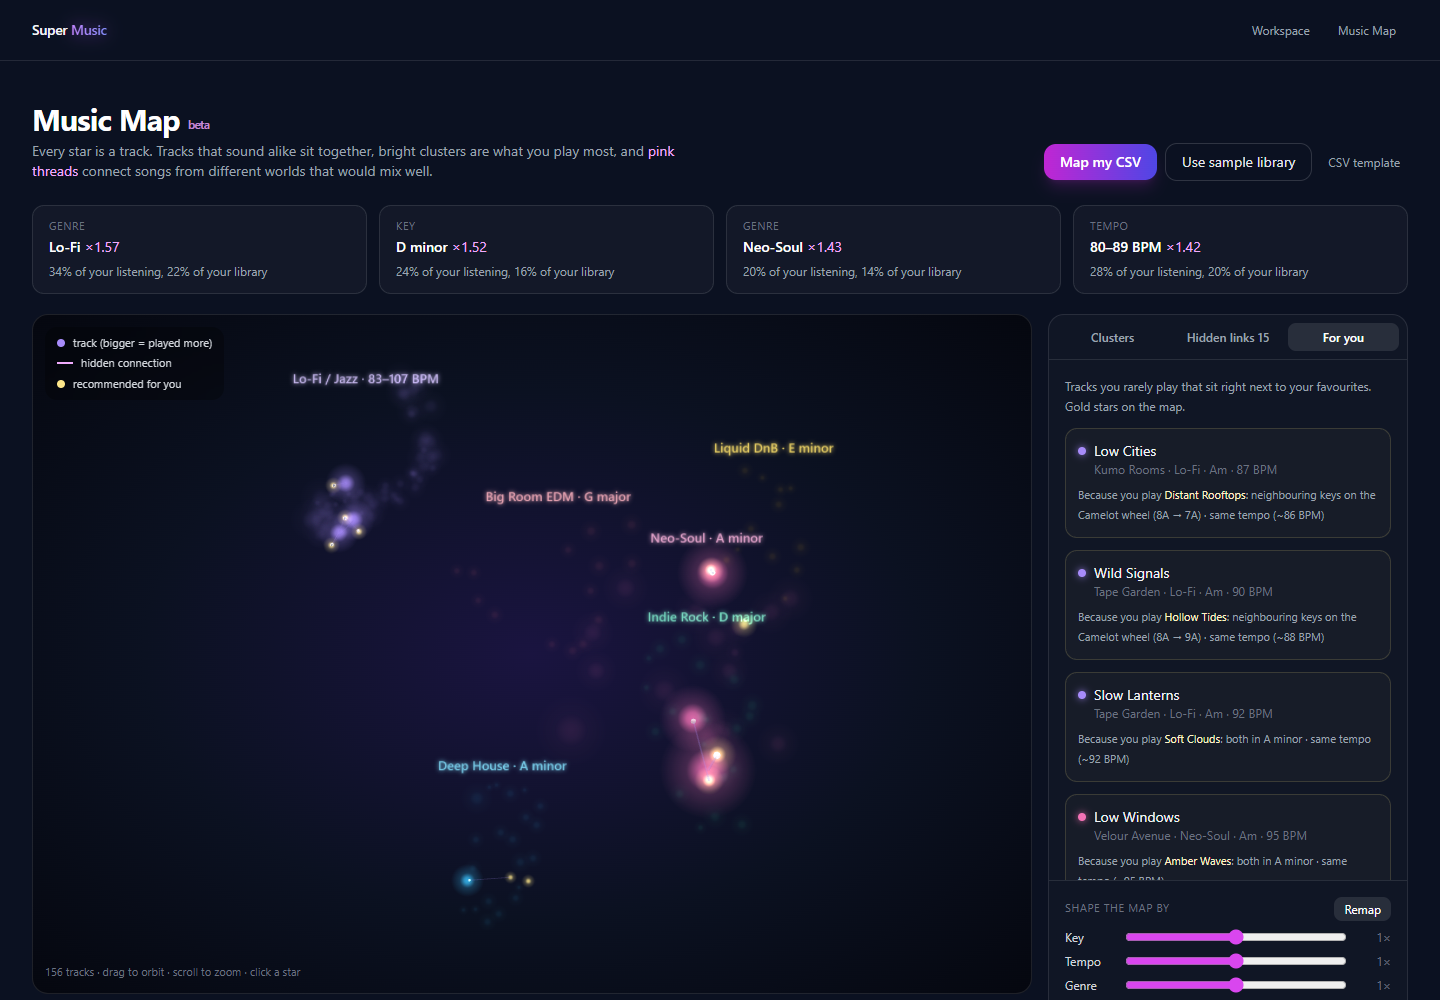
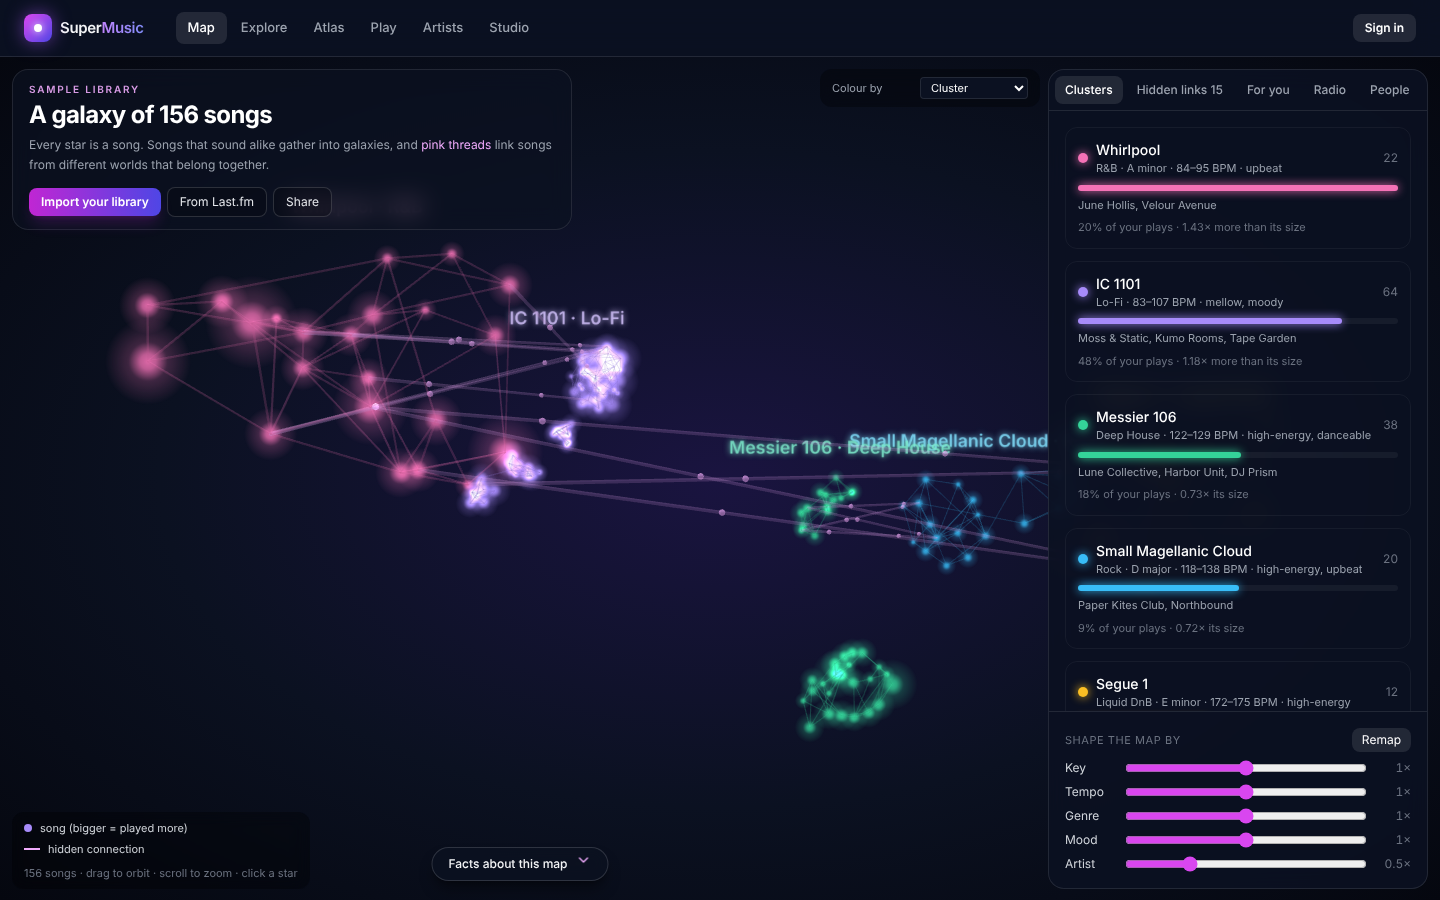
Retake the screenshots from the current site and bring the docs up to date
The home, Music Map and Studio screenshots now show the current UI. The
docs mention Last.fm import, call the upload page the Studio, describe
the library-files card as it is, and list the new import endpoints.

Claude-Session: https://claude.ai/code/session_01CCjRpTuzn9THwYsQwop7UZ

diff --git a/docs/music-map.md b/docs/music-map.md
@@ -4,7 +4,7 @@ The Music Map turns a spreadsheet of songs into a 3D constellation of your taste
 
 ![Music Map](img/music-map.png)
 
-Open it at **http://localhost:3000/map**. It loads a 156-track sample library (all made-up names) so you can explore right away.
+It is the home page: open **http://localhost:3000**. It loads a 156-track sample library (all made-up names) so you can explore right away.
 
 ## Reading the map
 
@@ -51,7 +51,7 @@ The **insight cards** across the top show the strongest skews in your listening,
 
 ## Share your map
 
-Press **Share** above the map to get a short link like `/map?share=ASRLnVJ2`. Anyone who opens it sees the map as you saw it, can click around, **Remap** it with different sliders, see songs they may like and start a radio station. They can't change your copy.
+Press **Share** above the map to get a short link like `/?share=ASRLnVJ2`. Anyone who opens it sees the map as you saw it, can click around, **Remap** it with different sliders, see songs they may like and start a radio station. They can't change your copy.
 
 - **Listed or link-only.** Tick *List it on Shared maps* to show it on the **Shared maps** page (`/maps`); unticked, only people with the link can find it.
 - **People see it as you do.** A share includes everything the map was built from: play counts, likes, the *For you* picks, insight cards, *Your library in numbers*, sound search and your slider settings. To keep your listening private, untick *Include my listening data*; the share then drops play counts, likes, skips, play dates, the *For you* picks, the insight cards and *Your library in numbers*, and the song list copied into the share has those columns removed too. People see the songs, clusters and links.
@@ -158,7 +158,7 @@ The server needs a free `LASTFM_API_KEY` in `.env` ([get one here](https://www.l
 
 ## Import from Spotify or Apple Music
 
-Click **Import Spotify / Apple Music** and pick one or more files. SuperMusic works out what each file is from its columns:
+Click **Import your library** and pick one or more files. SuperMusic works out what each file is from its columns:
 
 | Service | File | Where to get it |
 |---|---|---|
@@ -175,7 +175,7 @@ Listening histories don't include genre, tempo or key. With **Look up genre, tem
 
 The merged library is saved to `data/processed/library/`, and the sliders and **Remap** work on it like any other map.
 
-The **CSV / library files** card on the Workspace page does the same merge without drawing a map: drop in any number of files, get one deduplicated, enriched CSV back with a summary of what each file was, how many duplicates were merged and how many songs now have each detail, plus an **Open it in the Music Map** link. With several files you can also pick **One file per input**: each file comes back as its own enriched CSV (its own songs and play counts, with details looked up once and shared across files), plus a .zip of them all.
+The **CSV / library files** card on the Studio page does the same merge without drawing a map: drop in any number of files, get one deduplicated, enriched CSV back with a summary of what each file was, how many duplicates were merged and how many songs now have each detail, plus an **Open it in the Music Map** link. With several files you can also pick **One file per input**: each file comes back as its own enriched CSV (its own songs and play counts, with details looked up once and shared across files), plus a .zip of them all.
 
 **Big libraries.** Maps up to 50,000 songs are allowed. On a 4-core CPU a 23,000-song library draws in about 25 seconds (plus about 20 seconds once per server start, while UMAP compiles its fast neighbour search; the server does that in the background at start-up). Above 2,500 songs the 3D view draws all stars as one point cloud and all links as one set of lines, so it stays smooth; the overview names the 12 biggest clusters, and big libraries get up to 24 clusters instead of 10.
 

diff --git a/docs/usage.md b/docs/usage.md
@@ -4,7 +4,7 @@ On a public SuperMusic site, open it in your browser and sign in (top right) to 
 
 ## In the browser
 
-![Upload page](img/upload.png)
+![The Studio](img/upload.png)
 
 ### Turn a song into MIDI
 
@@ -32,22 +32,20 @@ On a public SuperMusic site, open it in your browser and sign in (top right) to 
 
 Demucs is heavy, so this can take a few minutes on a CPU.
 
-### Enrich a CSV of tracks
+### Import from Last.fm
 
-1. Under **CSV**, choose a `.csv` file.
-2. Click **Enrich CSV** and download the enriched copy when it's done.
+At the top of the Studio, type your Last.fm username and click **Import & enrich**. No password is needed, because Last.fm listening data is public. SuperMusic reads your top tracks, loved tracks and recent scrobbles, fills in genre, year, tempo, key and energy, and offers **Open it in the Music Map** when it's done. The server needs a free `LASTFM_API_KEY` ([configuration](configuration.md)). More detail is in the [Music Map guide](music-map.md#import-from-lastfm-no-files).
 
-Each row needs either a `youtube_url` or a `local_path` that points to an audio file **the server can see** (for Docker, a path inside `./data`, written as `/app/data/...`). Rows without reachable audio are kept but not enriched. Columns like `title` and `artist` are used for MusicBrainz lookups.
+### Clean up and enrich your library files
 
-```csv
-title,artist,youtube_url,local_path
-Me at the zoo,jawed,https://www.youtube.com/watch?v=jNQXAC9IVRw,
-My demo,Me,,/app/data/raw/uploads/audio/demo.mp3
-```
+1. Under **CSV / library files**, drop in one or more files: any CSV with `title` and `artist` columns, Exportify CSVs, or Spotify and Apple Music data exports.
+2. Leave **Look up missing genre, year, tempo, key and energy online** ticked to fill in what's missing (songs looked up before are remembered).
+3. With several files, choose **One combined file** (duplicates merged, play counts added up) or **One file per input**.
+4. Click **Enrich** and download the CSV when it's done, or open it straight in the Music Map.
 
 ### Explore the Music Map
 
-The Music Map is the home page. It starts with a sample library; click **Import Spotify / Apple Music** to use your own CSV or listening history, or **From Last.fm** to import your scrobbles by username (the server needs a `LASTFM_API_KEY`). The [Music Map guide](music-map.md) explains what you're looking at.
+The Music Map is the home page. It starts with a sample library; click **Import your library** to use your own CSV or listening history, or **From Last.fm** to import your scrobbles by username (the server needs a `LASTFM_API_KEY`). The [Music Map guide](music-map.md) explains what you're looking at.
 
 ## From the command line
 

diff --git a/docs/how-it-works.md b/docs/how-it-works.md
@@ -231,7 +231,7 @@ Things to notice in [`routes/midi.py`](../backend/app/routes/midi.py):
 | `backend/app/core/` | The actual audio/ML code. Each file is usable on its own, without FastAPI |
 | `backend/app/models/job.py` | The `Job` Pydantic model every long task returns |
 | `services/muscriptor/`, `services/yourmt3/`, `services/game/`, `services/clap/` | The model servers (YourMT3+ also carries the authors' model code under `amt/`) |
-| `frontend/pages/` | `index.js` (home), `upload.js` (the Workspace), `map.js` (Music Map) |
+| `frontend/pages/` | `index.js` (the Music Map, which is the home page), `upload.js` (the Studio), `atlas.js`, `play.js`, `u/` (profiles), `account.js`, `privacy.js`, `terms.js` |
 | `frontend/components/map/Graph3D.js` | The 3D map renderer |
 | `scripts/` | Benchmarks (`eval_*.py`), comparisons (`compare_*.py`), dataset builders (`build_*.py`), and `make_guide_figures.py` for this guide's charts |
 | `legacy/` | Older prototype code, kept for reference and not used by the app |
@@ -242,7 +242,7 @@ Things to notice in [`routes/midi.py`](../backend/app/routes/midi.py):
 
 ## 3. Audio to MIDI: seven modes and a voice model
 
-Turning recorded audio into notes is called **automatic music transcription (AMT)**. It's an open research problem, and no single model is best at everything. So the Workspace offers several modes, plus **Auto**, which picks one. Each mode is a function in `backend/app/core/` that takes an audio path and returns a MIDI path.
+Turning recorded audio into notes is called **automatic music transcription (AMT)**. It's an open research problem, and no single model is best at everything. So the Studio offers several modes, plus **Auto**, which picks one. Each mode is a function in `backend/app/core/` that takes an audio path and returns a MIDI path.
 
 | Mode in the UI | API `model` | Engine | Best for |
 |---|---|---|---|

diff --git a/docs/api.md b/docs/api.md
@@ -47,6 +47,7 @@ Jobs are saved, so a finished job can still be fetched after the server restarts
 | `GET` | `/stems/jobs/{id}` | |
 | `POST` | `/csv/enrich` | `csv_path`*, `strategy` ("youtube+acousticbrainz"), `options` |
 | `GET` | `/csv/jobs/{id}` | |
+| `POST` | `/csv/enrich-files` | multipart: `files`* (CSVs, Spotify or Apple Music exports), `lookup` (true), `limit` (2000), `output` ("combined" or "separate") |
 | `POST` | `/csv/import-lastfm` | `username`*, `lookup` (true), `limit` (2000). Needs `LASTFM_API_KEY` |
 | `GET` | `/csv/lastfm/status` | whether the Last.fm key is set |
 | `POST` | `/tracks/download` | `url`*, `format` ("bestaudio"), `title_hint` |

diff --git a/docs/playable-piano.md b/docs/playable-piano.md
@@ -1,6 +1,6 @@
 # Playable by two hands
 
-Tick **Playable by two hands** under the MIDI model in the Workspace, and the transcription is rewritten so a real pianist can play it with ten fingers. The download becomes a two-track file, **Right hand** and **Left hand**, and the untouched transcription is kept alongside it as `midi_original`.
+Tick **Playable by two hands** under the MIDI model in the Studio, and the transcription is rewritten so a real pianist can play it with ten fingers. The download becomes a two-track file, **Right hand** and **Left hand**, and the untouched transcription is kept alongside it as `midi_original`.
 
 ## What it does
 
